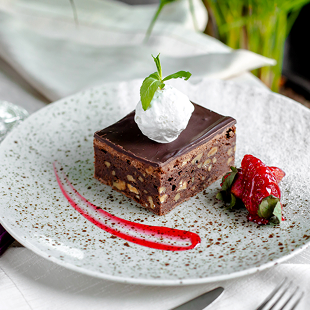
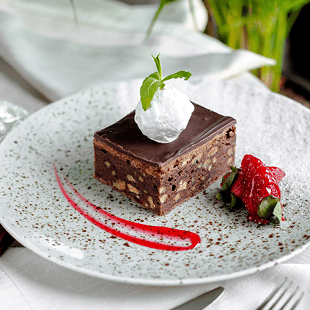
feat: optimize image

diff --git a/coffee-house/menu.html b/coffee-house/menu.html
@@ -46,150 +46,7 @@
 
                     <div class="offer__dishes dishes">
                         <div class="dishes__card">
-                            <div class="card">
-                                <div class="card__wrap-img">
-                                    <img class="card__img" src="./assets/img/coffee/coffee-1.png" alt="Image coffee">
-                                </div>
 
-                                <div class="card__boxed">
-                                    <div class="card__row">
-                                        <h3 class="card__title heading3">
-                                            Irish coffee
-                                        </h3>
-
-                                        <p class="card__desc fs-medium">Fragrant black coffee with Jameson Irish whiskey and whipped milk</p>
-                                    </div>
-
-                                    <div class="card__price heading3">$7.00</div>
-                                </div>
-                            </div>
-
-                            <div class="card">
-                                <div class="card__wrap-img">
-                                    <img class="card__img" src="./assets/img/coffee/coffee-2.png" alt="Image coffee">
-                                </div>
-
-                                <div class="card__boxed">
-                                    <div class="card__row">
-                                        <h3 class="card__title heading3">
-                                            Kahlua coffee
-                                        </h3>
-
-                                        <p class="card__desc fs-medium">Classic coffee with milk and Kahlua liqueur under a cap of frothed milk</p>
-                                    </div>
-
-                                    <div class="card__price heading3">$7.00</div>
-                                </div>
-                            </div>
-
-                            <div class="card">
-                                <div class="card__wrap-img">
-                                    <img class="card__img" src="./assets/img/coffee/coffee-3.png" alt="Image coffee">
-                                </div>
-
-                                <div class="card__boxed">
-                                    <div class="card__row">
-                                        <h3 class="card__title heading3">
-                                            Honey raf
-                                        </h3>
-
-                                        <p class="card__desc fs-medium">Espresso with frothed milk, cream and aromatic honey</p>
-                                    </div>
-
-                                    <div class="card__price heading3">$5.50</div>
-                                </div>
-                            </div>
-
-                            <div class="card">
-                                <div class="card__wrap-img">
-                                    <img class="card__img" src="./assets/img/coffee/coffee-4.png" alt="Image coffee">
-                                </div>
-
-                                <div class="card__boxed">
-                                    <div class="card__row">
-                                        <h3 class="card__title heading3">
-                                            Ice cappuccino
-                                        </h3>
-
-                                        <p class="card__desc fs-medium">Cappuccino with soft thick foam in summer version with ice</p>
-                                    </div>
-
-                                    <div class="card__price heading3">$5.00</div>
-                                </div>
-                            </div>
-
-                            <div class="card">
-                                <div class="card__wrap-img">
-                                    <img class="card__img" src="./assets/img/coffee/coffee-5.png" alt="Image coffee">
-                                </div>
-
-                                <div class="card__boxed">
-                                    <div class="card__row">
-                                        <h3 class="card__title heading3">
-                                            Espresso
-                                        </h3>
-
-                                        <p class="card__desc fs-medium">Classic black coffee</p>
-                                    </div>
-
-                                    <div class="card__price heading3">$4.50</div>
-                                </div>
-                            </div>
-
-                            <div class="card">
-                                <div class="card__wrap-img">
-                                    <img class="card__img" src="./assets/img/coffee/coffee-6.png" alt="Image coffee">
-                                </div>
-
-                                <div class="card__boxed">
-                                    <div class="card__row">
-                                        <h3 class="card__title heading3">
-                                            Latte
-                                        </h3>
-
-                                        <p class="card__desc fs-medium">Espresso coffee with the addition of steamed milk and dense milk foam</p>
-
-                                    </div>
-
-                                    <div class="card__price heading3">$5.50</div>
-                                </div>
-                            </div>
-
-                            <div class="card">
-                                <div class="card__wrap-img">
-                                    <img class="card__img" src="./assets/img/coffee/coffee-7.png" alt="Image coffee">
-                                </div>
-
-                                <div class="card__boxed">
-                                    <div class="card__row">
-                                        <h3 class="card__title heading3">
-                                            Latte macchiato
-                                        </h3>
-
-                                        <p class="card__desc fs-medium">Espresso with frothed milk and chocolate</p>
-                                    </div>
-
-                                    <div class="card__price heading3">$5.50</div>
-                                </div>
-                            </div>
-
-                            <div class="card">
-                                <div class="card__wrap-img">
-                                    <img class="card__img" src="./assets/img/coffee/coffee-8.png" alt="Image coffee">
-                                </div>
-
-                                <div class="card__boxed">
-                                    <div class="card__row">
-                                        <h3 class="card__title heading3">
-                                            Coffee with cognac
-                                        </h3>
-
-                                        <p class="card__desc fs-medium">Fragrant black coffee with cognac and whipped cream</p>
-                                    </div>
-
-                                    <div class="card__price heading3">$6.50</div>
-                                </div>
-                            </div>
                         </div>
                     </div>
                 </div>

diff --git a/coffee-house/index.html b/coffee-house/index.html
@@ -93,12 +93,12 @@
 
                             <div class="carousel__controls">
                                 <div class="carousel__btns">
-                                    <button class="carousel__left">
+                                    <button class="carousel__left" aria-label="Prev slide">
                                         <svg width="24" height="24" viewBox="0 0 24 24" fill="none" xmlns="http://www.w3.org/2000/svg">
                                             <path d="M18.5 12H6M6 12L12 6M6 12L12 18" stroke="#403F3D" stroke-linecap="round" stroke-linejoin="round"/>
                                         </svg>
                                     </button>
-                                    <button class="carousel__right">
+                                    <button class="carousel__right" aria-label="Next slide">
                                         <svg width="24" height="24" viewBox="0 0 24 24" fill="none" xmlns="http://www.w3.org/2000/svg">
                                             <path d="M18.5 12H6M6 12L12 6M6 12L12 18" stroke="#403F3D" stroke-linecap="round" stroke-linejoin="round"/>
                                         </svg>

diff --git a/coffee-house/components/menu.js b/coffee-house/components/menu.js
@@ -862,7 +862,7 @@ document.addEventListener('DOMContentLoaded', () => {
         card.className = 'card';
         card.innerHTML = `
           <div class="card__wrap-img">
-            <img class="card__img" src="${img}" alt="${name}">
+            <img class="card__img" src="${img}" alt="${name}" loading="lazy">
           </div>
           <div class="card__boxed">
             <div class="card__row">

diff --git a/coffee-house/assets/styles/about.css b/coffee-house/assets/styles/about.css
@@ -14,11 +14,12 @@
     object-fit: cover;
     transition: transform 0.6s ease;
     transform-origin: center;
-
 }
 
-.about__gallery img:hover {
-    transform: scale(0.9);
+@media (hover: hover) and (pointer: fine) {
+    .about__gallery img:hover {
+        transform: scale(0.9);
+    }
 }
 
 .gallery__col {

diff --git a/coffee-house/assets/styles/styles.css b/coffee-house/assets/styles/styles.css
@@ -83,3 +83,7 @@ body.lock {
     max-width: 1440px;
     width: 100%;
 }
+
+.hidden {
+    display: none;
+}
